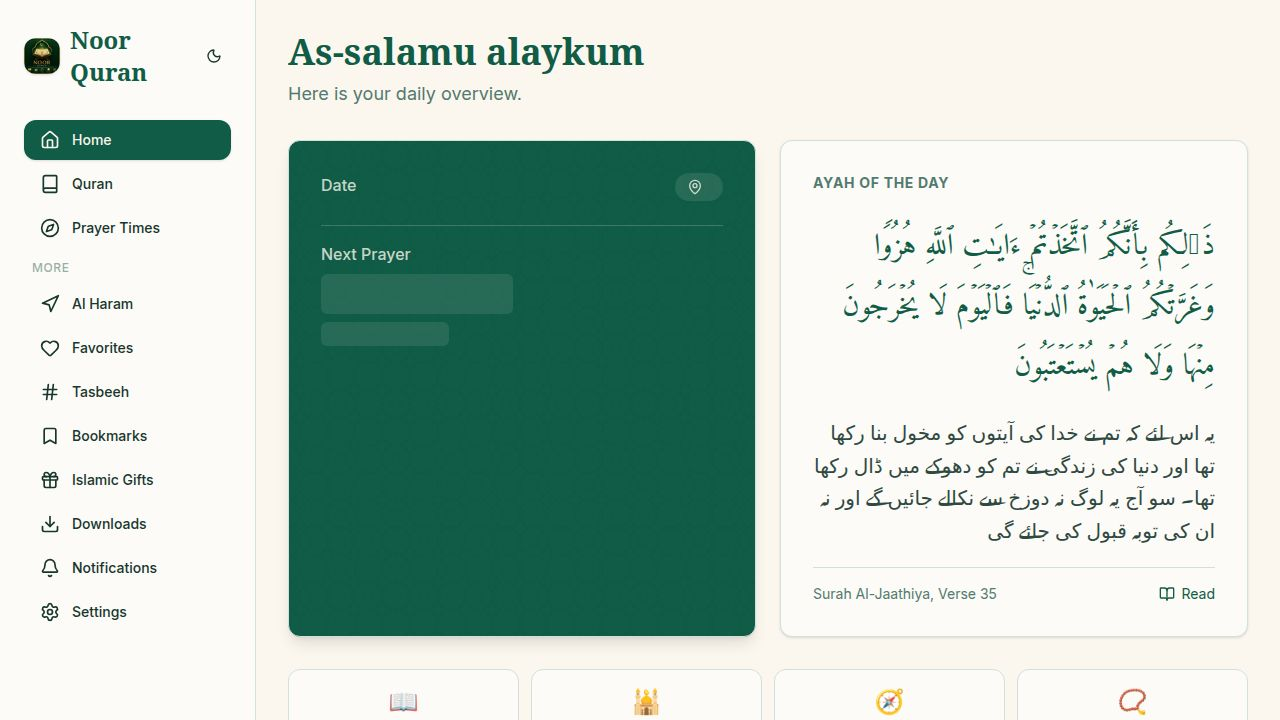
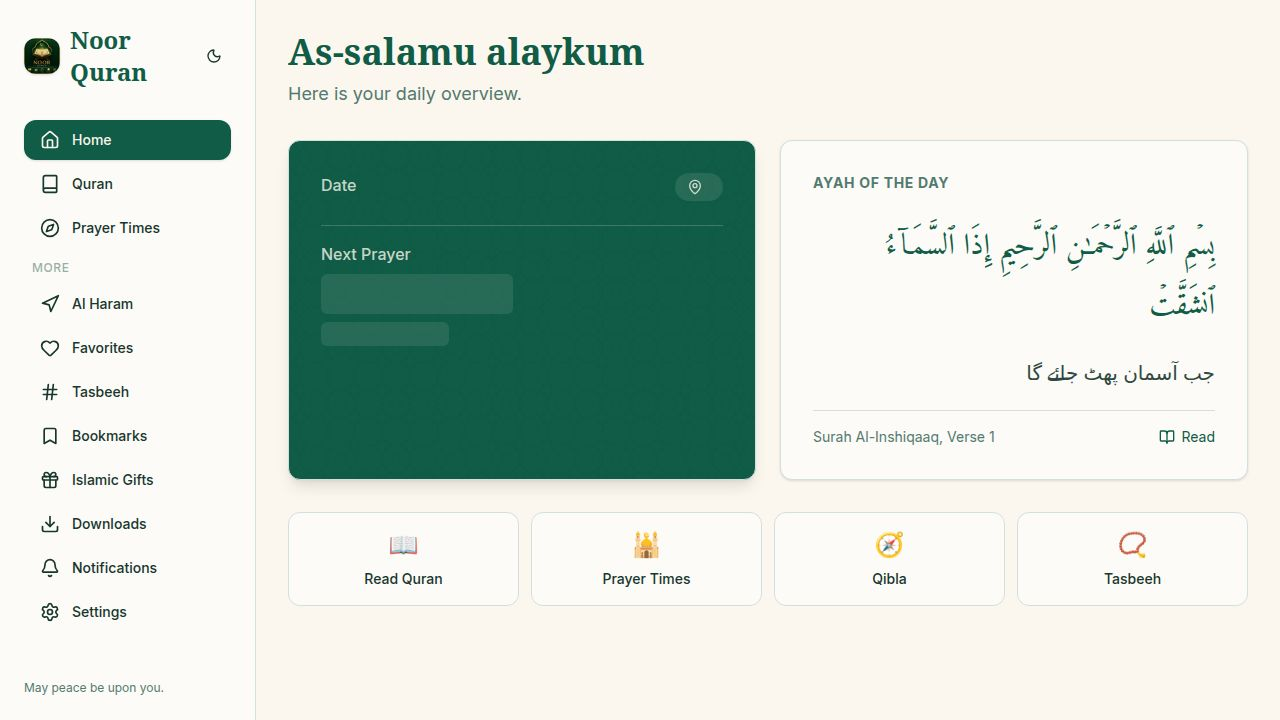
Add a button to support the app through rewarded ads
Create a new RewardedAdButton component and integrate it into the About page, enabling users to watch ads to support the application.

Replit-Commit-Author: Agent
Replit-Commit-Session-Id: 8b78380b-f781-4bd2-aa41-ef57e8796f42
Replit-Commit-Checkpoint-Type: full_checkpoint
Replit-Commit-Event-Id: 0cab97ff-9e18-4133-bc2d-2d4ce7d44bb1
Replit-Commit-Screenshot-Url: https://storage.googleapis.com/screenshot-production-us-central1/bd238ef0-1b86-4eea-96d7-950cea5f63f3/8b78380b-f781-4bd2-aa41-ef57e8796f42/WFpoDVy
Replit-Helium-Checkpoint-Created: true

diff --git a/artifacts/islamic-app/src/components/rewarded-ad-button.tsx b/artifacts/islamic-app/src/components/rewarded-ad-button.tsx
@@ -1,0 +1,228 @@
+/**
+ * RewardedAdButton — "Support Noor Quran" button with native AdMob Rewarded Ad.
+ *
+ * AdMob App ID   : ca-app-pub-5050437827917011~3831002202  (AndroidManifest.xml)
+ * Rewarded Unit  : ca-app-pub-5050437827917011/8806398221
+ *
+ * Flow (native APK):
+ *  1. User taps button → prepareRewardVideoAd() starts loading
+ *  2. Ad loads → showRewardVideoAd() presents the full-screen ad
+ *  3. On Rewarded or Dismissed → show JazakAllah toast
+ *  4. On any error → graceful fallback toast, no crash
+ *
+ * In browser / non-Capacitor: shows the thank-you message directly (no-op ad).
+ *
+ * Google Play policy compliance:
+ *  - Fully voluntary — user must tap to start
+ *  - Never gate core functionality behind watching an ad
+ *  - Label clearly states what happens ("Watch a short ad to support us")
+ */
+
+import { useState, useRef } from "react";
+import { Heart, Loader2 } from "lucide-react";
+import { isNative } from "@/lib/capacitor";
+import { useToast } from "@/hooks/use-toast";
+import type { PluginListenerHandle } from "@capacitor/core";
+
+// ── Constants ─────────────────────────────────────────────────────────────────
+const REWARDED_AD_UNIT = "ca-app-pub-5050437827917011/8806398221";
+const JAZAK_TITLE      = "JazakAllah Khair 🌙";
+const JAZAK_MSG        = "JazakAllah for supporting Noor Quran 🌙";
+
+// ── Types ─────────────────────────────────────────────────────────────────────
+type AdState = "idle" | "loading" | "showing" | "done";
+
+// ── Component ─────────────────────────────────────────────────────────────────
+export function RewardedAdButton() {
+  const [adState, setAdState]   = useState<AdState>("idle");
+  const { toast }               = useToast();
+  const listeners               = useRef<PluginListenerHandle[]>([]);
+  const mountedRef              = useRef(true);
+
+  // Cleanup listeners helper
+  function clearListeners() {
+    listeners.current.forEach((h) => h.remove().catch(() => {}));
+    listeners.current = [];
+  }
+
+  async function handleSupport() {
+    if (adState !== "idle") return;
+
+    // ── Browser / web fallback — show thank-you directly ──────────────────────
+    if (!isNative()) {
+      toast({ title: JAZAK_TITLE, description: JAZAK_MSG });
+      setAdState("done");
+      setTimeout(() => setAdState("idle"), 4000);
+      return;
+    }
+
+    // ── Native APK — load and show rewarded ad ────────────────────────────────
+    setAdState("loading");
+    mountedRef.current = true;
+
+    try {
+      const {
+        AdMob,
+        RewardAdPluginEvents,
+      } = await import("@capacitor-community/admob");
+
+      // Subscribe to rewarded ad events
+      const onRewarded = await AdMob.addListener(
+        RewardAdPluginEvents.Rewarded,
+        () => {
+          // User watched enough to earn reward — show thanks
+          if (mountedRef.current) {
+            toast({ title: JAZAK_TITLE, description: JAZAK_MSG });
+            setAdState("done");
+          }
+        }
+      );
+
+      const onDismissed = await AdMob.addListener(
+        RewardAdPluginEvents.Dismissed,
+        () => {
+          // Ad closed (may or may not have fully watched — still say thank you)
+          clearListeners();
+          if (mountedRef.current) {
+            toast({ title: JAZAK_TITLE, description: JAZAK_MSG });
+            setAdState("done");
+          }
+          setTimeout(() => {
+            if (mountedRef.current) setAdState("idle");
+          }, 4000);
+        }
+      );
+
+      const onFailedToShow = await AdMob.addListener(
+        RewardAdPluginEvents.FailedToShow,
+        () => {
+          clearListeners();
+          if (mountedRef.current) {
+            toast({
+              title: "Ad unavailable",
+              description: "No ad available right now. Please try again later.",
+            });
+            setAdState("idle");
+          }
+        }
+      );
+
+      const onLoaded = await AdMob.addListener(
+        RewardAdPluginEvents.Loaded,
+        async () => {
+          if (!mountedRef.current) return;
+          setAdState("showing");
+          try {
+            await AdMob.showRewardVideoAd();
+          } catch {
+            clearListeners();
+            if (mountedRef.current) {
+              toast({
+                title: "Ad unavailable",
+                description: "Couldn't show the ad. Please try again later.",
+              });
+              setAdState("idle");
+            }
+          }
+        }
+      );
+
+      const onFailedToLoad = await AdMob.addListener(
+        RewardAdPluginEvents.FailedToLoad,
+        (err) => {
+          clearListeners();
+          console.warn("[AdMob] Rewarded ad failed to load:", err);
+          if (mountedRef.current) {
+            toast({
+              title: "Ad unavailable",
+              description: "No ad available right now. JazakAllah for your support 🌙",
+            });
+            setAdState("idle");
+          }
+        }
+      );
+
+      listeners.current = [onLoaded, onRewarded, onDismissed, onFailedToLoad, onFailedToShow];
+
+      // Start loading the ad
+      await AdMob.prepareRewardVideoAd({
+        adId: REWARDED_AD_UNIT,
+        isTesting: false,
+      });
+
+    } catch (err) {
+      clearListeners();
+      console.warn("[AdMob] Rewarded ad error:", err);
+      if (mountedRef.current) {
+        toast({
+          title: "Ad unavailable",
+          description: "Couldn't load the ad right now. Try again later.",
+        });
+        setAdState("idle");
+      }
+    }
+  }
+
+  const isLoading = adState === "loading" || adState === "showing";
+  const isDone    = adState === "done";
+
+  return (
+    <button
+      onClick={handleSupport}
+      disabled={isLoading || isDone}
+      className="w-full flex items-center gap-4 p-4 rounded-2xl border text-left transition-all active:scale-[0.98] hover:opacity-90 disabled:opacity-60 disabled:cursor-not-allowed"
+      style={{
+        background: isDone
+          ? "linear-gradient(135deg, rgba(236,72,153,0.18) 0%, rgba(168,85,247,0.12) 100%)"
+          : "linear-gradient(135deg, rgba(236,72,153,0.12) 0%, rgba(168,85,247,0.08) 100%)",
+        borderColor: isDone ? "rgba(236,72,153,0.5)" : "rgba(236,72,153,0.3)",
+        boxShadow: isDone ? "0 0 20px rgba(236,72,153,0.12)" : undefined,
+      }}
+      data-testid="button-support-noor-quran"
+    >
+      {/* Icon */}
+      <span
+        className="w-10 h-10 rounded-xl flex items-center justify-center shrink-0"
+        style={{ background: "rgba(236,72,153,0.18)" }}
+      >
+        {isLoading ? (
+          <Loader2 className="w-5 h-5 text-pink-400 animate-spin" />
+        ) : isDone ? (
+          <span className="text-lg">🌙</span>
+        ) : (
+          <Heart className="w-5 h-5 text-pink-400 fill-pink-400" />
+        )}
+      </span>
+
+      {/* Text */}
+      <div className="flex-1 min-w-0">
+        {isDone ? (
+          <>
+            <p className="text-white text-sm font-semibold">JazakAllah Khair 🌙</p>
+            <p className="text-pink-600 text-xs mt-0.5">Thank you for supporting Noor Quran</p>
+          </>
+        ) : isLoading ? (
+          <>
+            <p className="text-white text-sm font-semibold">🤍 Support Noor Quran</p>
+            <p className="text-pink-600 text-xs mt-0.5">Loading ad, please wait…</p>
+          </>
+        ) : (
+          <>
+            <p className="text-white text-sm font-semibold">🤍 Support Noor Quran</p>
+            <p className="text-pink-600 text-xs mt-0.5">Watch a short ad to support us</p>
+          </>
+        )}
+      </div>
+
+      {/* Right badge */}
+      {!isLoading && !isDone && (
+        <span
+          className="text-[10px] font-bold text-pink-400 px-2 py-1 rounded-full border border-pink-900/50 shrink-0"
+          style={{ background: "rgba(236,72,153,0.1)" }}
+        >
+          FREE
+        </span>
+      )}
+    </button>
+  );
+}

diff --git a/artifacts/islamic-app/src/pages/about.tsx b/artifacts/islamic-app/src/pages/about.tsx
@@ -5,6 +5,7 @@ import {
   Calculator, ExternalLink,
 } from "lucide-react";
 import { useToast } from "@/hooks/use-toast";
+import { RewardedAdButton } from "@/components/rewarded-ad-button";
 
 const APP_SHARE_URL = "https://play.google.com/store/apps/details?id=com.sj64noorquran";
 const APP_SHARE_MSG =
@@ -340,6 +341,9 @@ export function About() {
 
         {/* ── Action buttons ── */}
         <div className="space-y-3 pb-4">
+          {/* Support Noor Quran — Rewarded Ad */}
+          <RewardedAdButton />
+
           <ActionButton
             icon={<Share2 className="w-5 h-5" />}
             label="Share Noor Quran"